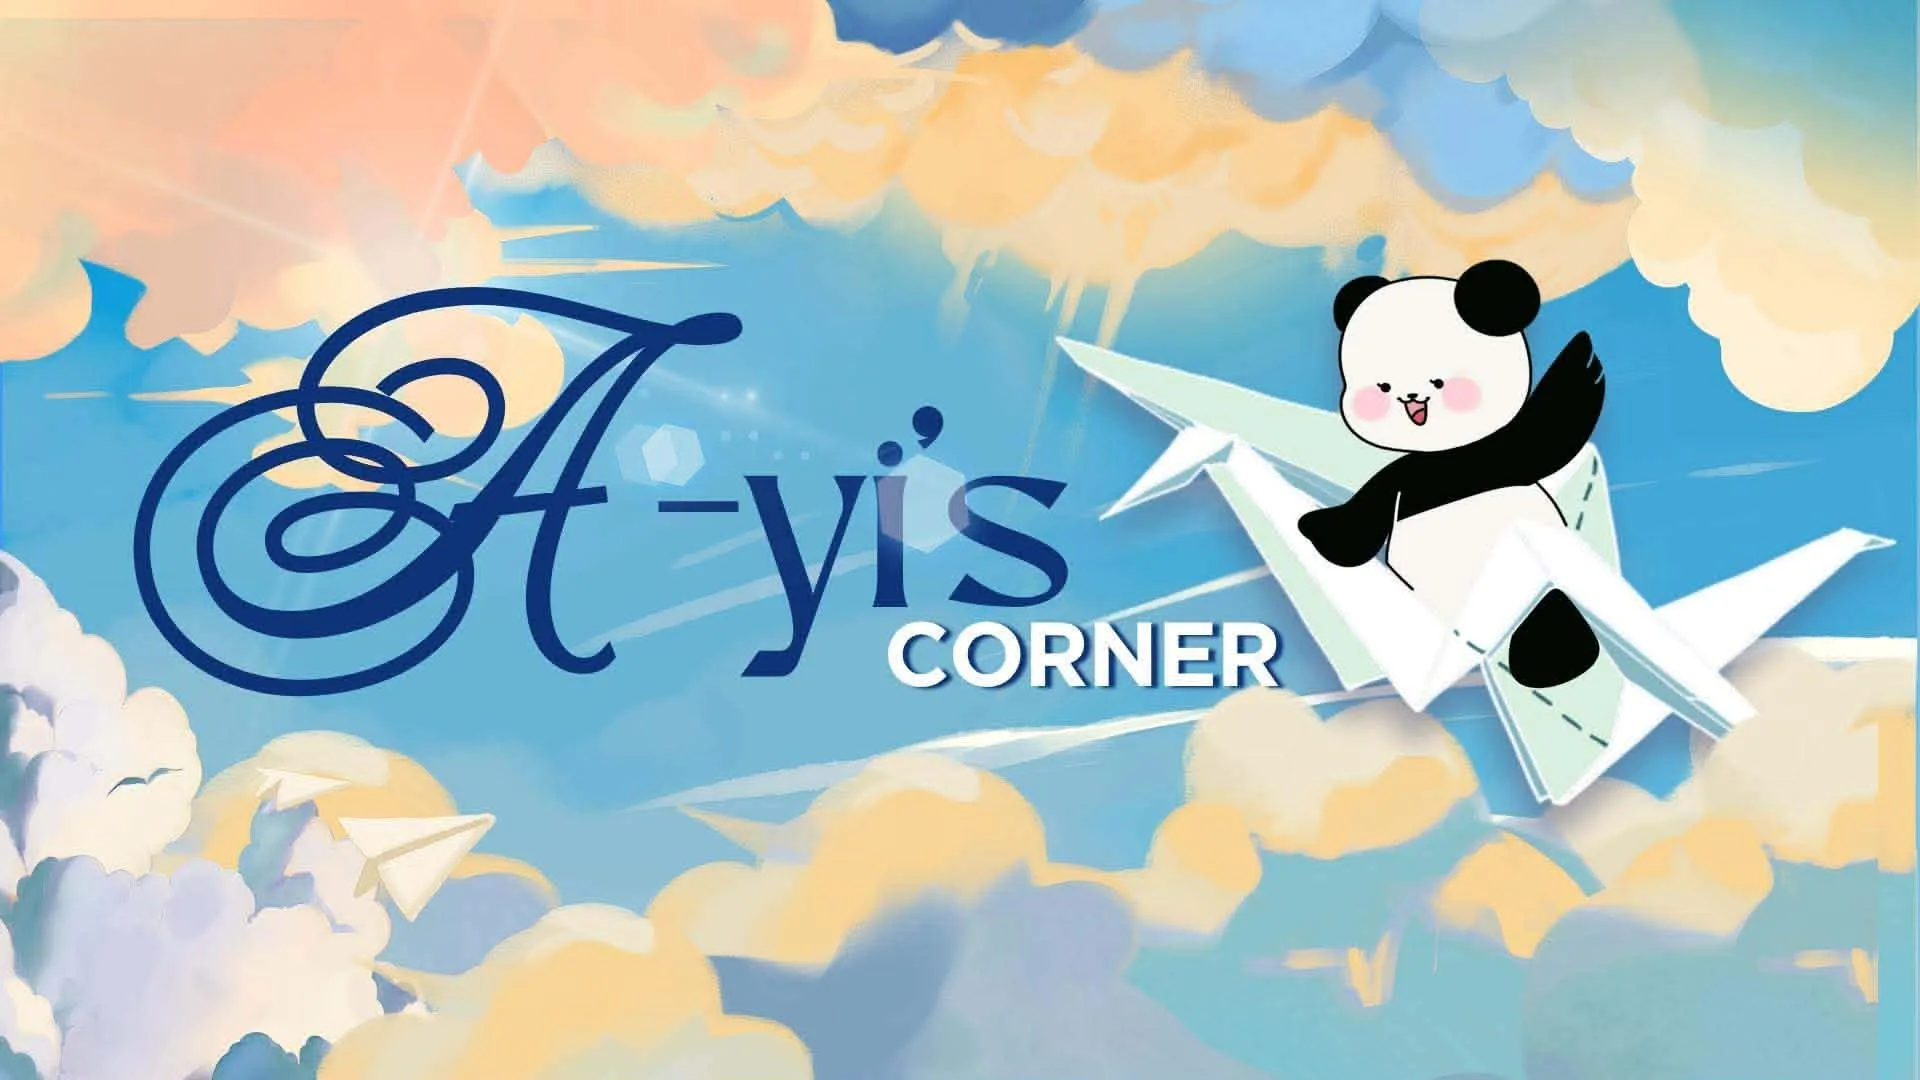
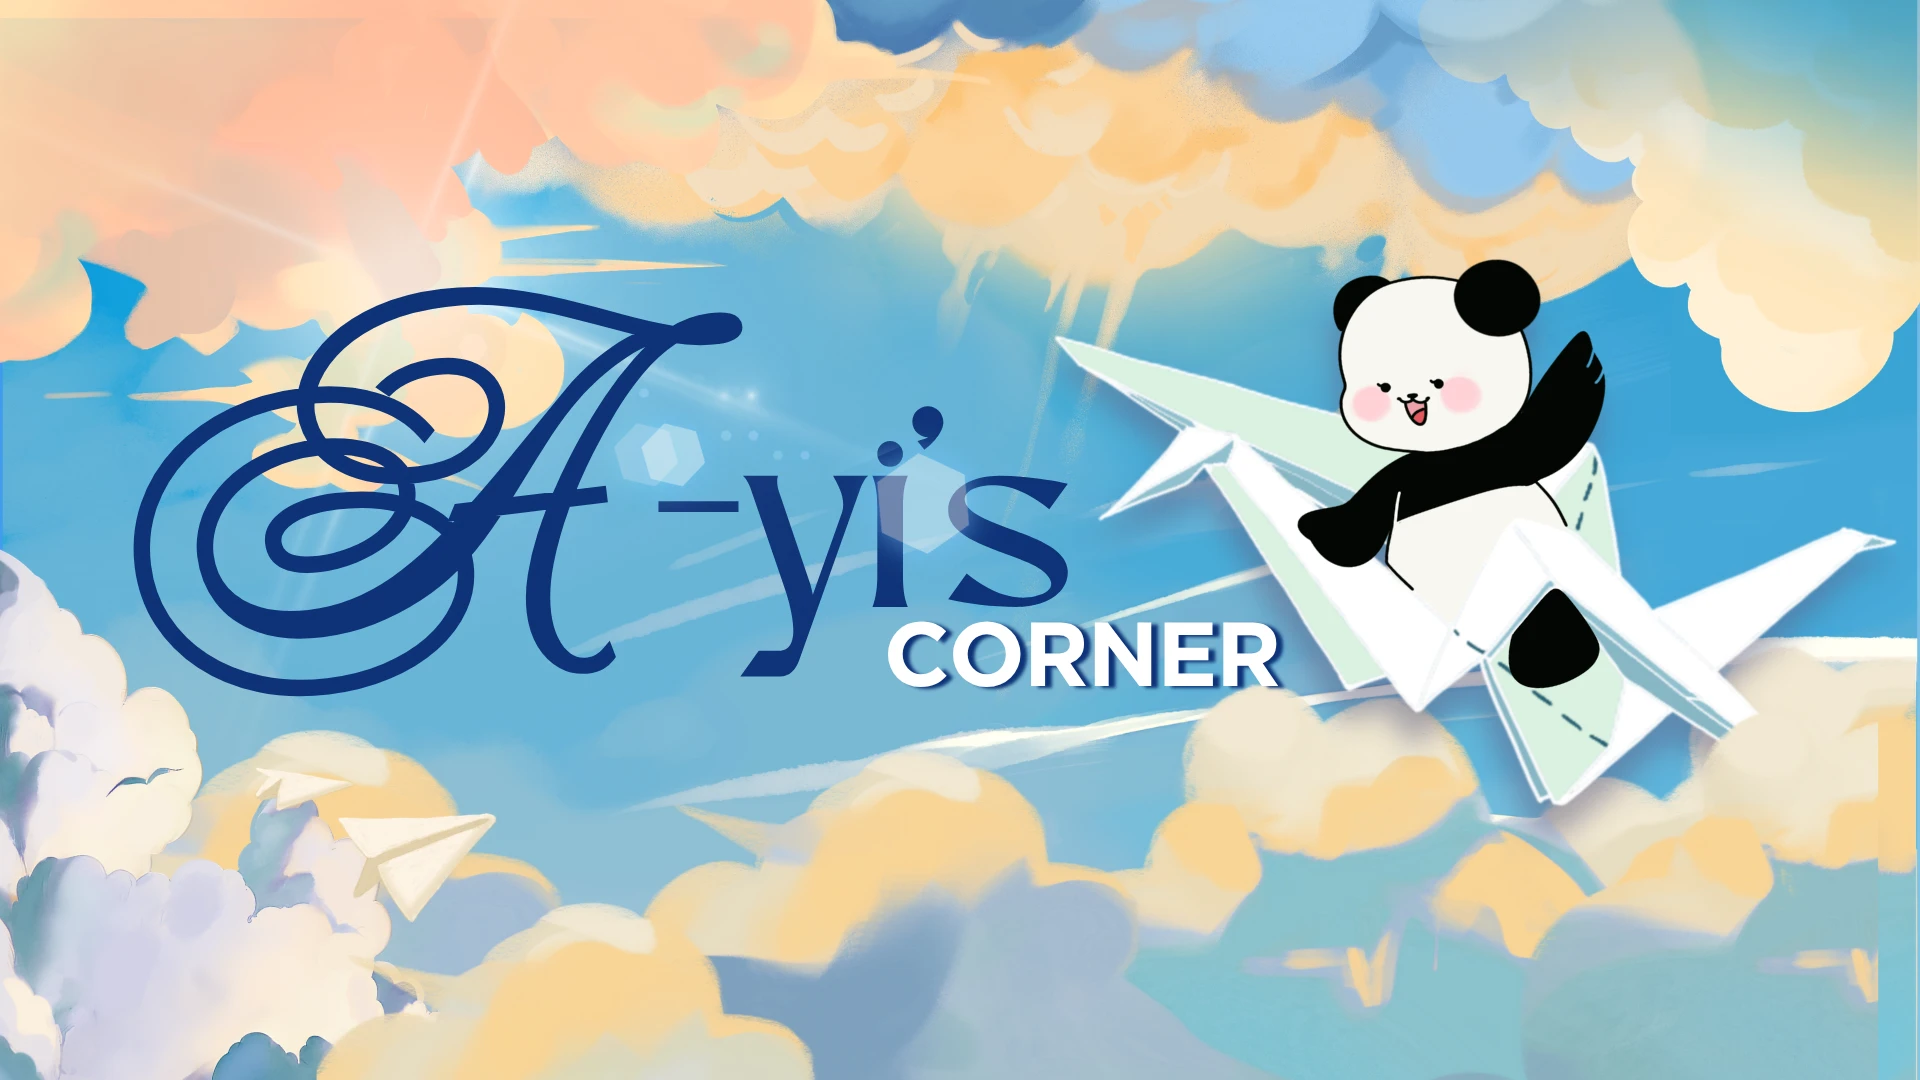
Add a faded-echo hero treatment for OSR/FIN and other portal polish
- Give OSR and FIN department headers a padded desktop layout: a crisp,
  rounded, centered copy of the banner over a full-bleed faded echo of the
  same image, with a mask fade blending the two into one continuous image
  (mobile and narrow tablet widths stay full-bleed)
- Bias OSR's crop off-center so a left-edge dashboard panel doesn't leave
  a sliver of real content sitting in the fade zone
- Fix the dashboard (A-yi's Corner) footer transition, matching the same
  flat-white fix already applied to the dept-apps hub and EBCB directory
- Replace the A-yi's Corner banner artwork
- Add a reciprocal "A-yi's Corner" link to the public site's header/mobile
  menu, mirroring the internal portal's existing "Public Site" link

diff --git a/src/lib/deputy-departments.ts b/src/lib/deputy-departments.ts
@@ -130,8 +130,25 @@ export interface Department {
   fullName: string;
   accent: DeptAccent;
   /** Illustrated banner from the department's own PDF. Not every department
-   * has one — OSR's source material never included one. */
+   * has one. */
   heroImage?: { src: string; alt: string };
+  /** Insets the hero banner from the viewport edges on desktop instead of
+   * running full-bleed — for a banner whose art doesn't read as well
+   * stretched edge-to-edge. The gutter is filled with a faded, full-bleed
+   * echo of the same banner (rather than a flat color) so it still reads as
+   * one continuous image. Mobile (and narrow tablet widths, for `large`)
+   * stays full-bleed either way. */
+  heroImagePadding?: {
+    /** Bumps the inset size up and delays it to a wider breakpoint (`md`
+     * instead of `sm`) — for a banner that needs a roomier frame. */
+    large?: boolean;
+    /** CSS `object-position` for the crisp centered copy — shift it off
+     * dead-center when the source art has real content (not just ambient
+     * background) sitting close to an edge, so the crop favors hiding that
+     * content instead of leaving a sliver of it sitting right in the fade.
+     * Defaults to centered. */
+    objectPosition?: string;
+  };
   /** Photo cover shown on the hub's department card — distinct from
    * `heroImage`, which is the department's own page banner. */
   cardCover: { src: string; alt: string };
@@ -725,6 +742,7 @@ export const DEPARTMENTS: Department[] = [
     fullName: "Financial Affairs",
     accent: { base: "#16A34A", tint: "#F0FDF4", ink: "#14532D" },
     heroImage: { src: "/internal/fin-hero.webp", alt: "Welcome to the FINance Farmily 2026-2027" },
+    heroImagePadding: {},
     cardCover: { src: "/internal/fin-card-cover.webp", alt: "FIN" },
     cardBlurb:
       "FIN is responsible for all Celadon financial matters including major fundraising projects for the organization and other financial transactions. It is in charge of instilling financial responsibility as well as encouraging sustainable innovation.",
@@ -1008,6 +1026,10 @@ export const DEPARTMENTS: Department[] = [
     fullName: "Organization Strategies and Research",
     accent: { base: "#7C3AED", tint: "#F5F3FF", ink: "#4C1D95" },
     heroImage: { src: "/internal/osr-hero.webp", alt: "Organization Strategies and Research — loading, panda mascot" },
+    // Biased right so the crop hides more of the left-edge chart panel —
+    // that panel otherwise leaves a sliver of real content sitting right in
+    // the fade-to-backdrop zone at the crisp copy's left edge.
+    heroImagePadding: { large: true, objectPosition: "65% center" },
     cardCover: { src: "/internal/osr-card-cover.webp", alt: "OSR" },
     cardBlurb:
       "OSR develops evaluative and data-driven projects and organizational strategies for Celadon’s sustainable growth. The department handles research initiatives and back-end work for the organization.",

diff --git a/src/components/site-header.tsx b/src/components/site-header.tsx
@@ -35,27 +35,36 @@ export function SiteHeader() {
       style={{ zIndex: "var(--z-nav)" }}
     >
       <Container className="flex h-16 items-center justify-between sm:h-[4.5rem]">
-        <Link
-          href="/"
-          aria-label="Ateneo Celadon — home"
-          className="flex shrink-0 items-center rounded-lg focus-visible:outline-2 focus-visible:outline-offset-4 focus-visible:outline-navy"
-        >
-          <Image
-            src={asset("/brand/dreagle-mark.png")}
-            alt=""
-            width={775}
-            height={775}
-            priority
-            className="h-16 w-auto"
-          />
-          <span className="sr-only">Ateneo Celadon</span>
-        </Link>
+        <div className="flex items-center gap-2 sm:gap-6">
+          <Link
+            href="/"
+            aria-label="Ateneo Celadon — home"
+            className="flex shrink-0 items-center rounded-lg focus-visible:outline-2 focus-visible:outline-offset-4 focus-visible:outline-navy"
+          >
+            <Image
+              src={asset("/brand/dreagle-mark.png")}
+              alt=""
+              width={775}
+              height={775}
+              priority
+              className="h-16 w-auto"
+            />
+            <span className="sr-only">Ateneo Celadon</span>
+          </Link>
 
-        <nav aria-label="Main" className="hidden items-center gap-1 sm:flex">
-          {NAV.map((item) => (
-            <NavLink key={item.href} item={item} pathname={pathname} />
-          ))}
-        </nav>
+          <nav aria-label="Main" className="hidden items-center gap-1 sm:flex">
+            {NAV.map((item) => (
+              <NavLink key={item.href} item={item} pathname={pathname} />
+            ))}
+          </nav>
+        </div>
+
+        <Link
+          href="/internal"
+          className="pressable hidden items-center rounded-full bg-navy-tint px-4 py-2 text-xs font-bold uppercase tracking-wider text-navy transition-colors hover:bg-navy/[0.15] sm:flex"
+        >
+          A-yi&rsquo;s Corner
+        </Link>
 
         <button
           type="button"
@@ -195,6 +204,14 @@ function MobileMenu({ pathname, onClose }: { pathname: string; onClose: () => vo
             />
           ))}
         </nav>
+
+        <Link
+          href="/internal"
+          onClick={onClose}
+          className="mt-6 flex items-center gap-1.5 rounded-2xl px-4 py-3 text-sm font-bold uppercase tracking-wider text-muted-foreground transition-colors hover:bg-navy-tint hover:text-navy"
+        >
+          A-yi&rsquo;s Corner <span aria-hidden>&rarr;</span>
+        </Link>
       </div>
     </div>,
     document.body

diff --git a/src/components/internal/dept-hero.tsx b/src/components/internal/dept-hero.tsx
@@ -32,7 +32,54 @@ export function DeptHero({ dept }: { dept: Department }) {
         }}
       />
 
-      {dept.heroImage && (
+      {dept.heroImage && dept.heroImagePadding && (
+        <div className="relative w-full overflow-hidden">
+          {/* Full-bleed echo of the same banner, faded, filling the gutter
+              either side of the crisp centered copy below — so the frame
+              reads as one continuous image bleeding off-screen rather than
+              empty color once the crisp copy is inset from the edges.
+              `overflow-hidden` here clips the backdrop's `scale-105` so it
+              doesn't peek out past the section's own bottom edge. */}
+          <Image
+            aria-hidden
+            src={asset(dept.heroImage.src)}
+            alt=""
+            width={1920}
+            height={1080}
+            className="max-h-[60vh] w-full scale-105 object-cover opacity-35"
+          />
+          <div
+            className={cn(
+              "absolute inset-0",
+              dept.heroImagePadding.large
+                ? "md:px-12 lg:px-24 xl:px-40 2xl:px-56"
+                : "sm:px-8 md:px-12 lg:px-20"
+            )}
+          >
+            <Reveal className="relative h-full">
+              <Image
+                src={asset(dept.heroImage.src)}
+                alt={dept.heroImage.alt}
+                fill
+                priority
+                data-reveal
+                className={cn(
+                  "object-cover",
+                  dept.heroImagePadding.large ? "md:rounded-2xl" : "sm:rounded-2xl"
+                )}
+                style={{
+                  objectPosition: dept.heroImagePadding.objectPosition,
+                  maskImage: "linear-gradient(to right, transparent, black 10%, black 90%, transparent)",
+                  WebkitMaskImage:
+                    "linear-gradient(to right, transparent, black 10%, black 90%, transparent)",
+                }}
+              />
+            </Reveal>
+          </div>
+        </div>
+      )}
+
+      {dept.heroImage && !dept.heroImagePadding && (
         <Reveal>
           <Image
             src={asset(dept.heroImage.src)}

diff --git a/src/app/internal/page.tsx b/src/app/internal/page.tsx
@@ -77,7 +77,13 @@ export default function InternalPortalHomePage() {
         </section>
 
         {/* ---- Core Team committees ----------------------------------- */}
-        <section className="py-16 sm:py-20">
+        {/* Flat white, not the ambient wash — this is the last section on
+            the page, and its bottom padding sits directly above the
+            footer's own plain-white margin gap. Letting the wash show
+            through here instead would cut off abruptly right where the
+            footer needs to fade in cleanly (same fix as the dept-apps hub
+            and EBCB directory pages). */}
+        <section className="bg-white py-16 sm:py-20">
           <Container>
             <Reveal className="mx-auto max-w-2xl text-center">
               <p className="sky-display eyebrow text-sky-navy/70" data-reveal>
